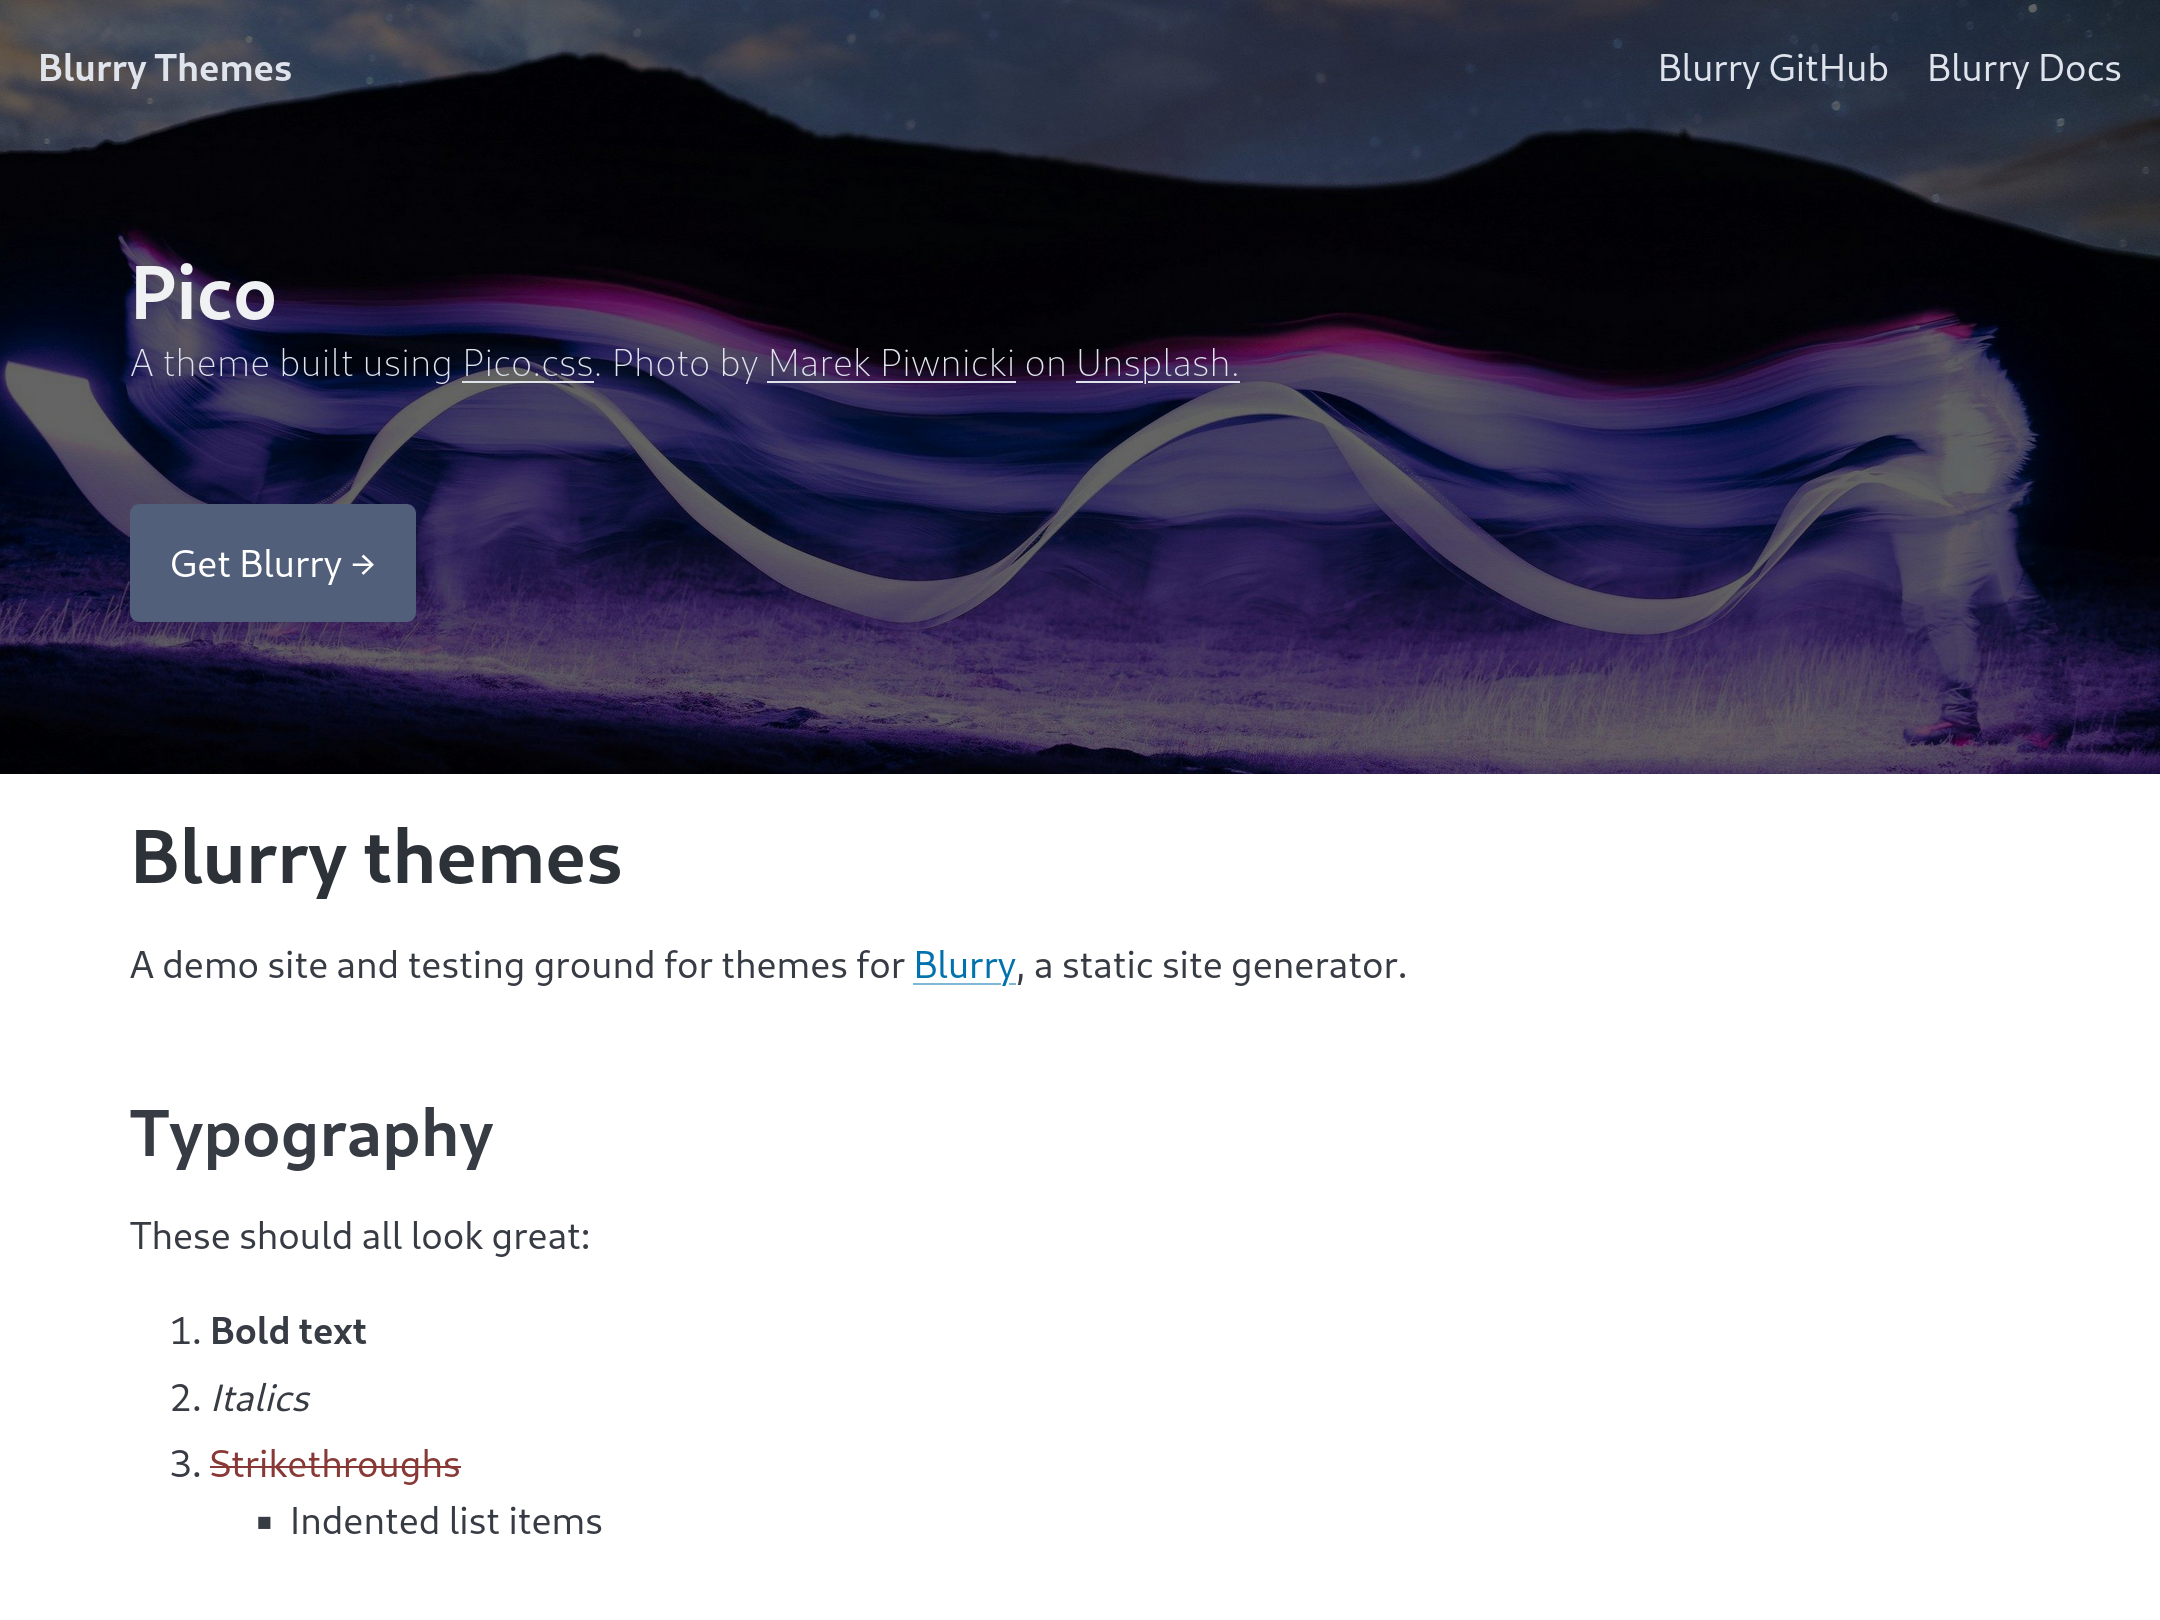
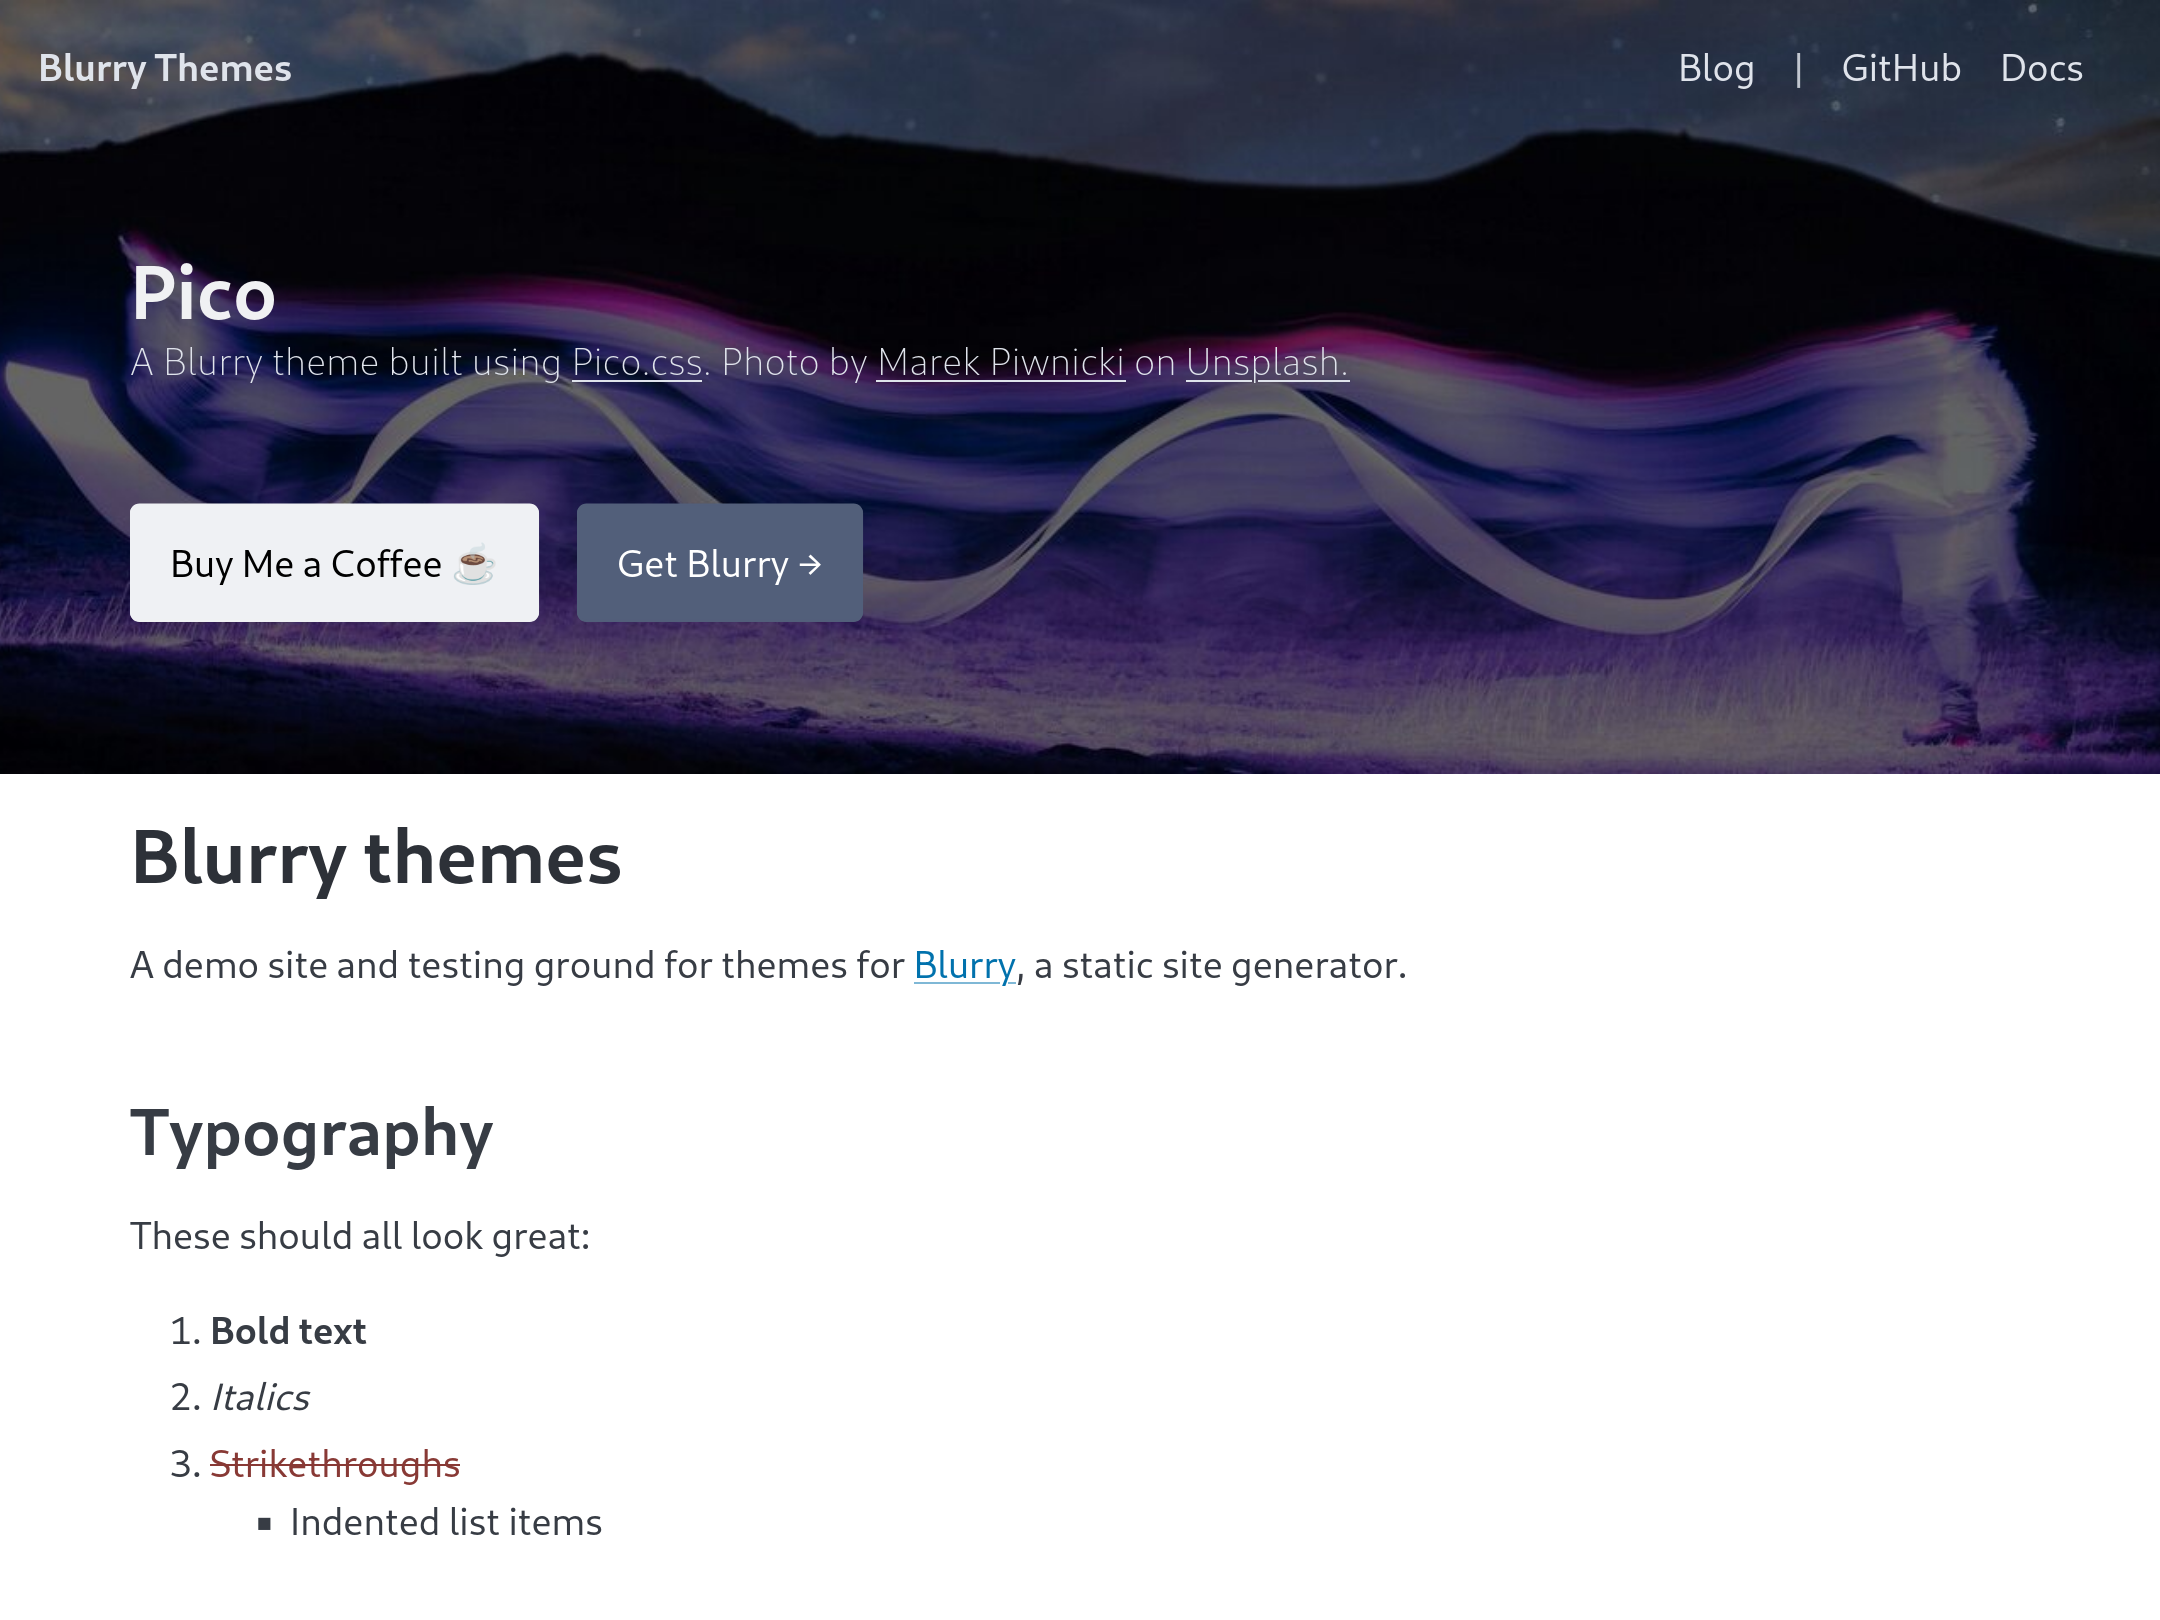
Update homepage, README, and add blog

diff --git a/content/index.md b/content/index.md
@@ -1,5 +1,5 @@
 +++
-"@type" = "WebPage"
+"@type" = "WebSite"
 name = "Blurry Themes"
 abstract = "A demo site for Blurry themes"
 datePublished = 2024-02-09
@@ -10,7 +10,31 @@ dateModified = 2024-02-10
 
 A demo site and testing ground for themes for [Blurry](https://github.com/blurry-dev/blurry), a static site generator.
 
-## Typography
+## How to use a Blurry theme
+
+The themes are available here:
+
+1. Clone the `blurry-themes` repo (<https://github.com/blurry-dev/blurry-themes>):
+
+    ```bash
+    git clone git@github.com:blurry-dev/blurry-themes.git
+    ```
+
+2. Try out the different themes by editing the `templates_directory_name` setting in `blurry.toml`, or by passing the equivalent environment variable to `blurry runserver`:
+
+    ```bash
+    BLURRY_TEMPLATES_DIRECTORY_NAME=themes/pico blurry runserver
+    ```
+
+3. Once you find a theme you like, copy its folder into your project at the path that matches your site's `TEMPLATES_DIRECTORY_NAME` setting, which defaults to `templates`.
+
+---
+
+## Demo
+
+Below is a quick demonstration of how common Markdown elements appear with this theme.
+
+### Typography
 
 These should all look great:
 
@@ -19,21 +43,27 @@ These should all look great:
 1. ~~Strikethroughs~~
     - Indented list items
 
-## Code
+### Code
 
-### Inline
+#### Inline
 
-Inline `code` and <kbd>kbd</kbd> should be <kbd>=</kbd>ly easy on the eyes.
+Inline `code` and <kbd>kbd</kbd> tags should be <kbd>=</kbd>ly easy on the eyes.
 
-### Block
+#### Block
 
 ```html
 Block code should work <strong>well</strong>, too.
 ```
 
-## Table demo
+### Tables
 
-| Blurry repo                                                                                    | Type   | Stars  |
-| ---------------------------------------------------------------------------------------------- | ------ | ------ |
-| [blurry](https://github.com/blurry-dev/blurry)                                                 | CLI    | 10+    |
-| [blurry-plugin-blur-blurry-name](https://github.com/blurry-dev/blurry-plugin-blur-blurry-name) | Plugin | 0      |
+| Blurry repo                                                                                    | Type   | Stars |
+| ---------------------------------------------------------------------------------------------- | ------ | ----- |
+| [blurry](https://github.com/blurry-dev/blurry)                                                 | CLI    | 10+   |
+| [blurry-plugin-blur-blurry-name](https://github.com/blurry-dev/blurry-plugin-blur-blurry-name) | Plugin | 0     |
+
+### Images
+
+Images are responsive out-of-the-box so they stay in-the-box if the box is a browser's viewport:
+
+![Photo by Marek Piwnicki on Unsplash](./images/marek-piwnicki-jjNcP78A8XE-unsplash.jpg)

diff --git a/content/blog/index.md b/content/blog/index.md
@@ -1,0 +1,6 @@
++++
+"@type" = "Blog"
+name = "Blog"
+abstract = "A sample blog to showcase Blurry theme templates"
+dateModified = 2024-02-04
++++

diff --git a/README.md b/README.md
@@ -6,6 +6,8 @@
 
 ### Pico
 
+A theme using [Pico.css](https://picocss.com/).
+
 ![Pico theme](./docs/pico-screenshot.png)
 
 ## Contributing
